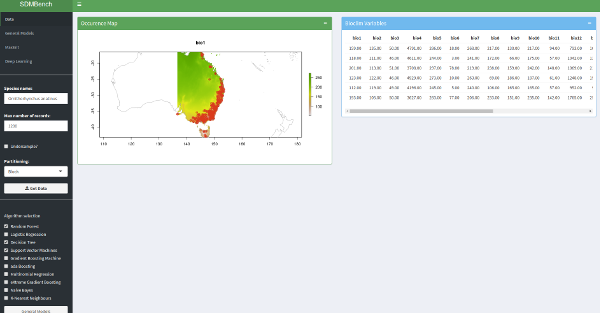
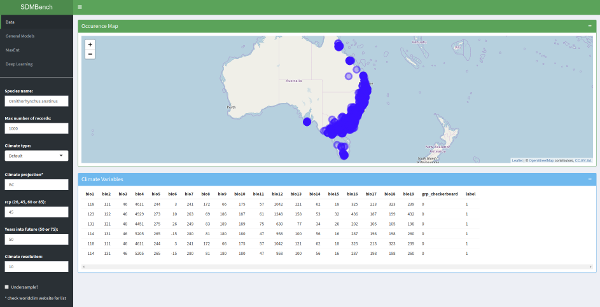
Add interactive SDM maps

diff --git a/README.md b/README.md
@@ -85,23 +85,24 @@ best_results
 #> # Groups:   learner.id [4]
 #>   learner.id            iter   auc
 #>   <fct>                <int> <dbl>
-#> 1 classif.randomForest     2 0.899
-#> 2 classif.logreg           2 0.655
-#> 3 classif.rpart            2 0.773
-#> 4 classif.ksvm             2 0.923
+#> 1 classif.randomForest     3 0.859
+#> 2 classif.logreg           3 0.596
+#> 3 classif.rpart            3 0.825
+#> 4 classif.ksvm             3 0.933
 ```
 
 Plot best model results:
 
 ``` r
 bmr_models <- mlr::getBMRModels(bmr)
-plot_sdm_map(raster_data = benchmarking_data$raster_data$climate_variables,
-                                                    bmr_models = bmr_models,
-                                                    model_id = best_results$learner.id[1],
-                                                    model_iteration = best_results$iter[1]) +
-                                                    raster::plot(wrld_simpl, 
-                                                                 add = TRUE, 
-                                                                 border = "darkgrey")
+plot_sdm_map(raster_data = benchmarking_data$raster_data,
+            bmr_models = bmr_models,
+            model_id = best_results$learner.id[1],
+            model_iteration = best_results$iter[1],
+             map_type = "static") +
+            raster::plot(wrld_simpl, 
+                         add = TRUE, 
+                         border = "darkgrey")
 ```
 
 ![](README-unnamed-chunk-6-1.png)
